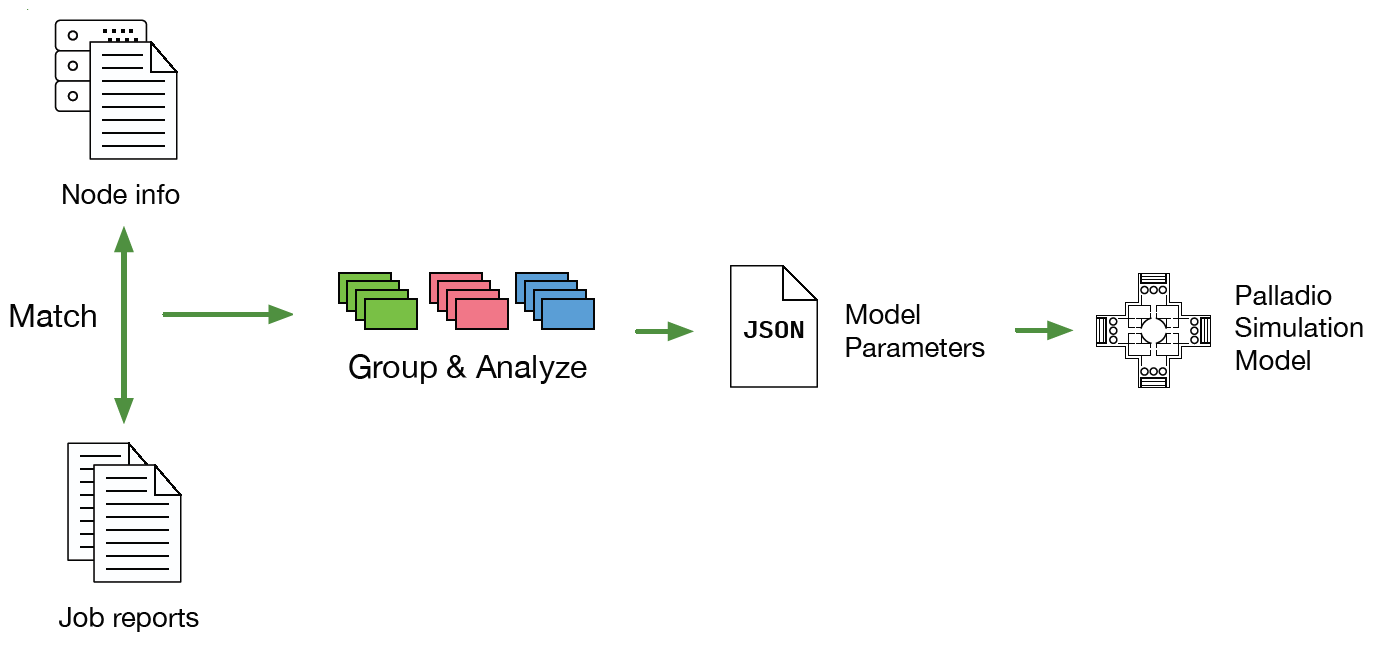
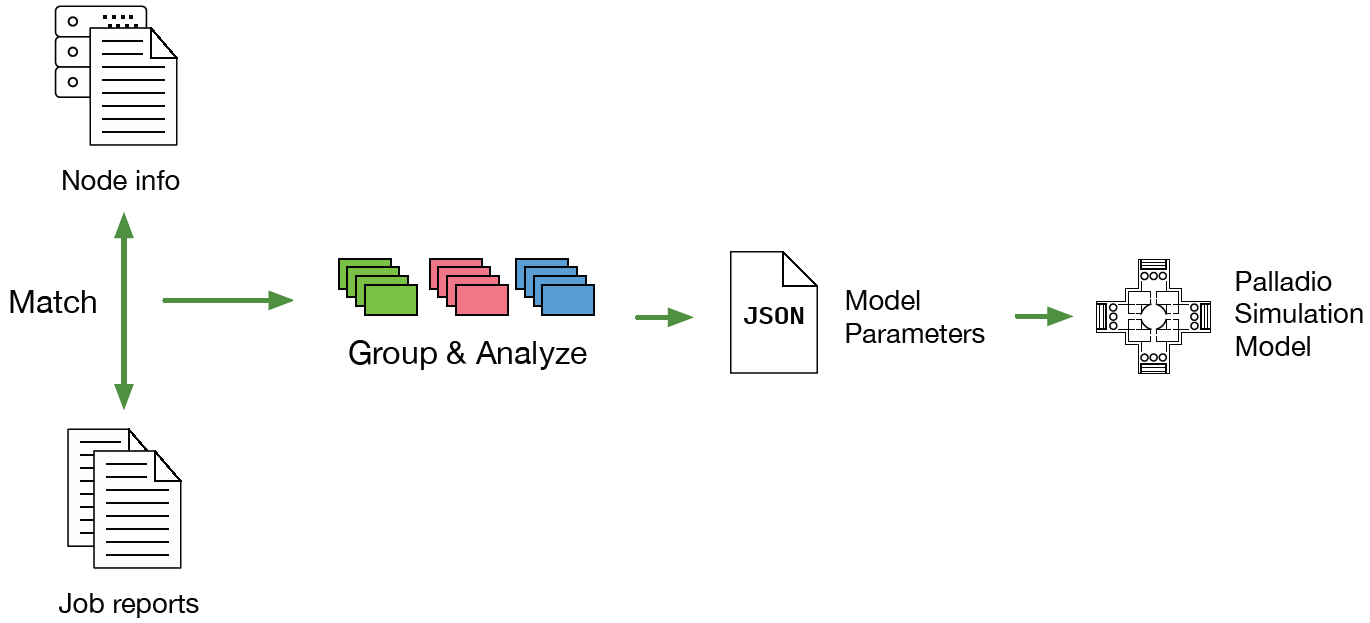
Change layout to fit in 8pages

diff --git a/paper/paper.tex b/paper/paper.tex
@@ -15,6 +15,10 @@
 % Use package for subfigures
 \usepackage{subcaption}
 
+% layout changes
+\setlength\belowcaptionskip{-15pt}
+\renewcommand*{\bibfont}{\footnotesize}
+
 
 \begin{document}
 \title{Modeling and Simulation of Load Balancing Strategies for Computing in High Energy Physics}
@@ -59,7 +63,7 @@ Another challenge for the HEP community is the increasing heterogeneity and dist
 
 \begin{figure*}
 	\centering
-	\includegraphics[width=0.7\linewidth]{images/resources}
+	\includegraphics[width=0.5\linewidth]{images/resources}
 	\caption[]{Estimated CPU resources of ATLAS \cite{community}}
 	\label{resources}
 \end{figure*}
@@ -76,7 +80,7 @@ Our long term goal is to evaluate different load balancing strategies for the WL
 The contribution of this paper is the modeling and simulating of CMS computing jobs at the Tier 1 center GridKa as a proof of concept.
 The model and simulation are created using the Palladio simulator, see \Cref{sec:palladio} for details on Palladio. We chose Palladio to archive a scalable simulation because it is a comparably abstract simulator (\Cref{related} gives an overview on other simulators and approaches).
 This leads to the research question how we can use Palladio to evaluate load balancing strategies for the CMS computing jobs, because the simulation of load balancing strategies is a new use case for Palladio. To realise it we created an extension for the simulator that enables us to simulate load balancing strategies and furthermore, we created an automated model parameter analysis and model creation, in order to increase the usability of the simulation.
-This model enables us to evaluate different load balancing strategies for GridKa and enables us to draw conclusions about the best optimizations of the load balancing for the WLCG. Furthermore, it can be used as a foundation for models and simulations of larger parts of the WLCG.
+This model enables us to evaluate different load balancing strategies for GridKa and enables us to draw conclusions about the best optimizations of the load balancing for the WLCG. Also, it can be used as a foundation for models and simulations of larger parts of the WLCG.
 
 
 This paper is organized as follows: \Cref{sec:palladio} presents the Palladio simulator as a foundation of the simulation. \Cref{sec:process} gives a overview on the simulation process. \Cref{sec:model} describes how different elements of the computing jobs and the computing resources are represented in our model. \Cref{sec:param} explains how we determine the model parameters and the automated model creation works. The validation is presented in \Cref{validation} and \Cref{related} puts our work in context with the related work. In \Cref{outlook} possible design decisions and how they could be modeled and simulated are presented. Finally, \Cref{conlusion} gives a conclusion on this paper.
@@ -118,7 +122,7 @@ Finally, after running the simulation, they can inspect the results, such as cor
 
 \begin{figure*}
 	\centering
-	\includegraphics[width=0.55\linewidth]{images/process}
+	\includegraphics[width=0.45\linewidth]{images/process}
 	\caption[]{The Simulation Process}
 	\label{process}
 \end{figure*}
@@ -139,8 +143,8 @@ While processing, the job uses the specified number of threads to process the CP
 
 \begin{figure*}
 	\centering
-	\includegraphics[width=1\linewidth]{images/seff}
-	\caption[]{Model of Job Behaviour}
+	\includegraphics[width=0.8\linewidth]{images/seff}
+	\caption[]{Model of Job Behavior}
 	\label{seff}
 \end{figure*}
 
@@ -186,33 +190,35 @@ This ensures an efficient and flexible model creation process.
 \section{Validation}
 \label{validation}
 
-\begin{figure}
-    \centering
-    \begin{subfigure}{0.48\linewidth}
-        \includegraphics[width=\linewidth]{images/validation/throughputs}
-    \end{subfigure}
-    \begin{subfigure}{0.48\linewidth}
-        \includegraphics[width=\linewidth]{images/validation/utilizations}
-    \end{subfigure}
-    \caption{Measured and simulated throughputs and CPU efficiency, job data from May 2018}
-    \label{fig:validation}
+\begin{figure}[h]
+	\centering
+	\vspace{-10px}
+	\begin{subfigure}{0.48\linewidth}
+		\includegraphics[width=\linewidth]{images/validation/throughputs}
+	\end{subfigure}
+	\begin{subfigure}{0.48\linewidth}
+		\includegraphics[width=\linewidth]{images/validation/utilizations}
+	\end{subfigure}
+	\vspace{-10px}
+	\caption{Measured and simulated throughputs and CPU efficiency, job data from May 2018}
+	\label{fig:validation}
 \end{figure}
-
-To validate the model and simulation we simulated CMS jobs at GridKa in May 2018.
+\vspace{10px}
+\noindent To validate the model and simulation we simulated CMS jobs at GridKa in May 2018.
 The job performance data was split into two equal sized calibration and test datasets by randomly sampling reports from the full data set.
 For the validation we considered the following metrics: Overall throughput of jobs, shares of the job types, and the overall CPU efficiency of the site.
 These metrics describe how well the simulation matches the measured performance data.
-Comparisons between  simulation results and measurements from the system itself for them are shown in figure \ref{fig:validation}.
+Comparisons between  simulation results and measurements from the system itself for them are shown in figure \Cref{fig:validation}.
 The simulated throughput matches the reference with a difference of about 5.6\%.
 The share of the simulated and measured job types also match accurately.
 
-The CPU utilization in the simulation and a comparison with the measured CPU efficiency is also shown in figure \ref{fig:validation}.
+The CPU utilization in the simulation and a comparison with the measured CPU efficiency is also shown in figure \Cref{fig:validation}.
 The initial ramp-up of the simulation is also visible.
 The overall average utilization in the simulation deviates from the reference by about 3\%, showing that even the current simplified model is capable of reproducing the metrics introduced above.
 Runtimes of the simulated jobs were also measured, the average runtime of simulated jobs deviates by approximately 8\% from the measured runtimes in the test data set.
 
 Simulating one week of CMS jobs at GridKa takes about 24 minutes on a laptop.
-Thus, it would be feasible to simulate several sites at once in a reasonable time, however simulating larger parts of the grid is future work.
+Thus, it is feasible to simulate several sites at once in a reasonable time, however simulating larger parts of the grid is future work.
 
 \section{Related Work}
 \label{related}
@@ -252,6 +258,9 @@ scheduling will be a key component for the efficient usage of the grid. We are c
 We successfully simulated the CMS computing jobs at GridKa. To enable easy usage of the simulation we implemented an automated model parameter extraction and model creation. Furthermore, we extended Palladio to be able to simulate load balancing strategies. Our first results are promising and suggest that this approach can be used to simulate load balancing strategies accurately. Regarding scalability we are confident that several computing centers can be simulated in a sufficient time, however this is part of future work.
 
 This proof of concept showed that an automated model parameter extraction and model creation is possible and that Palladio can be used to evaluate load balancing strategies for computing in HEP. In contrast to the existing simulations our simulation models a site in a more detailed way, enabling the evaluation of load balancing strategies on working node level. The next step is the evaluation of design decisions mentioned in \Cref{outlook}.
+
+
+
 
 \bibliography{paper}
 
